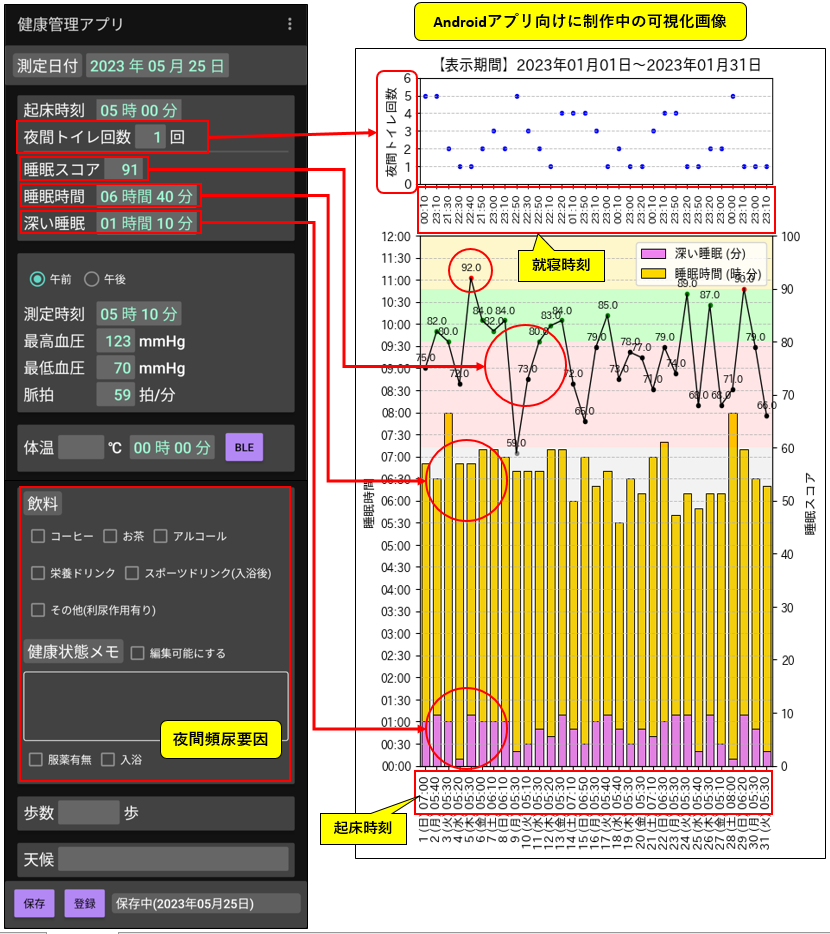
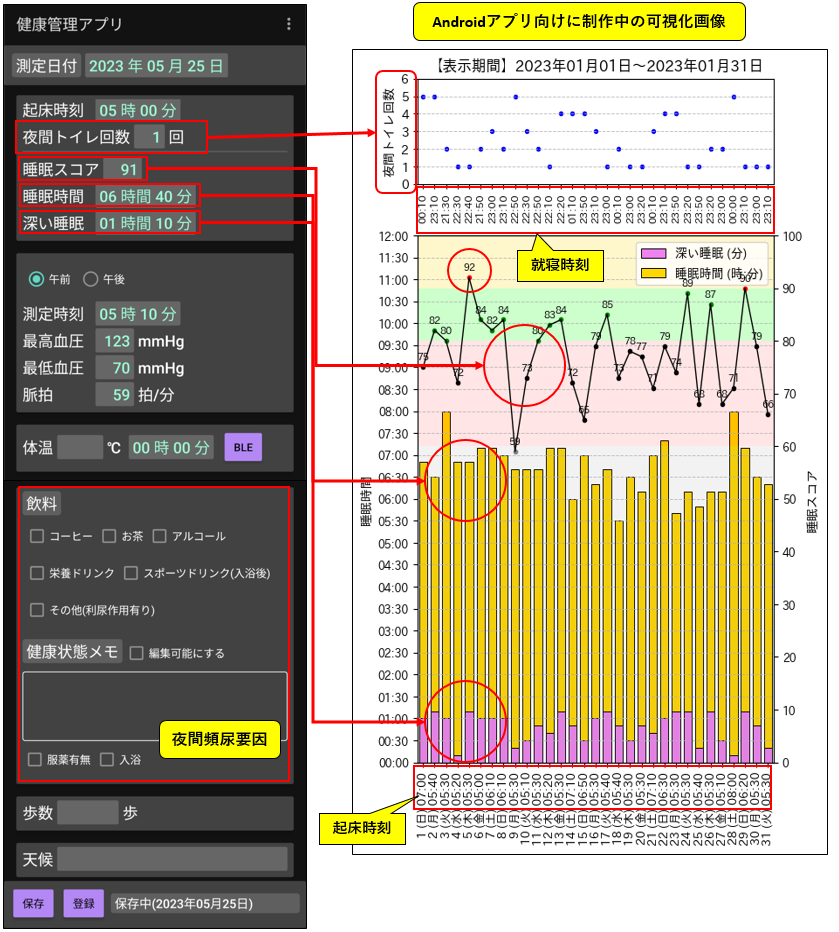
Bug fixed.
convert Sleep Score value to integer

diff --git a/src/healthcare/PlotSleepManBar2Plot_3_pandas_month.py b/src/healthcare/PlotSleepManBar2Plot_3_pandas_month.py
@@ -329,7 +329,8 @@ def drawScoreWithMarker(axes: matplotlib.pyplot.Axes, scoreSer: Series) -> None:
             scatter_style: Dict = SCATTER_SCORE_NORMAL_STYLE
         # マーカープロット
         axes.scatter(x_idx, score, **scatter_style)
-        axes.text(x_idx, score + 1, str(score), **PLOT_TEXT_STYLE)
+        # 睡眠スコアは整数 ※Seriesでは浮動小数点で格納されているため整数に整形
+        axes.text(x_idx, score + 1, f"{score:.0f}", **PLOT_TEXT_STYLE)
 
 
 def drawRectBackground(axes: matplotlib.pyplot.Axes,
